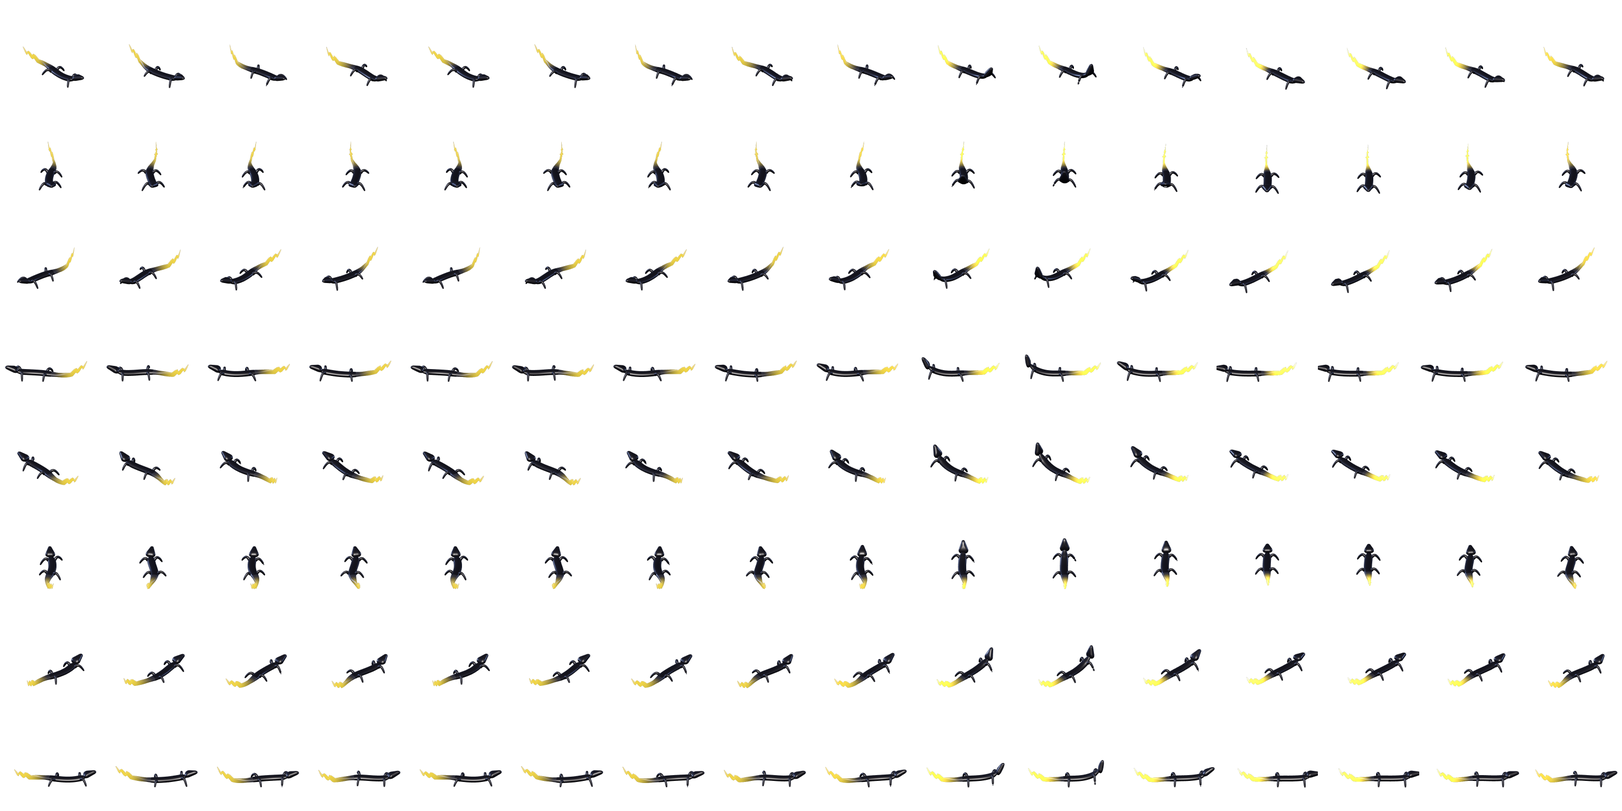
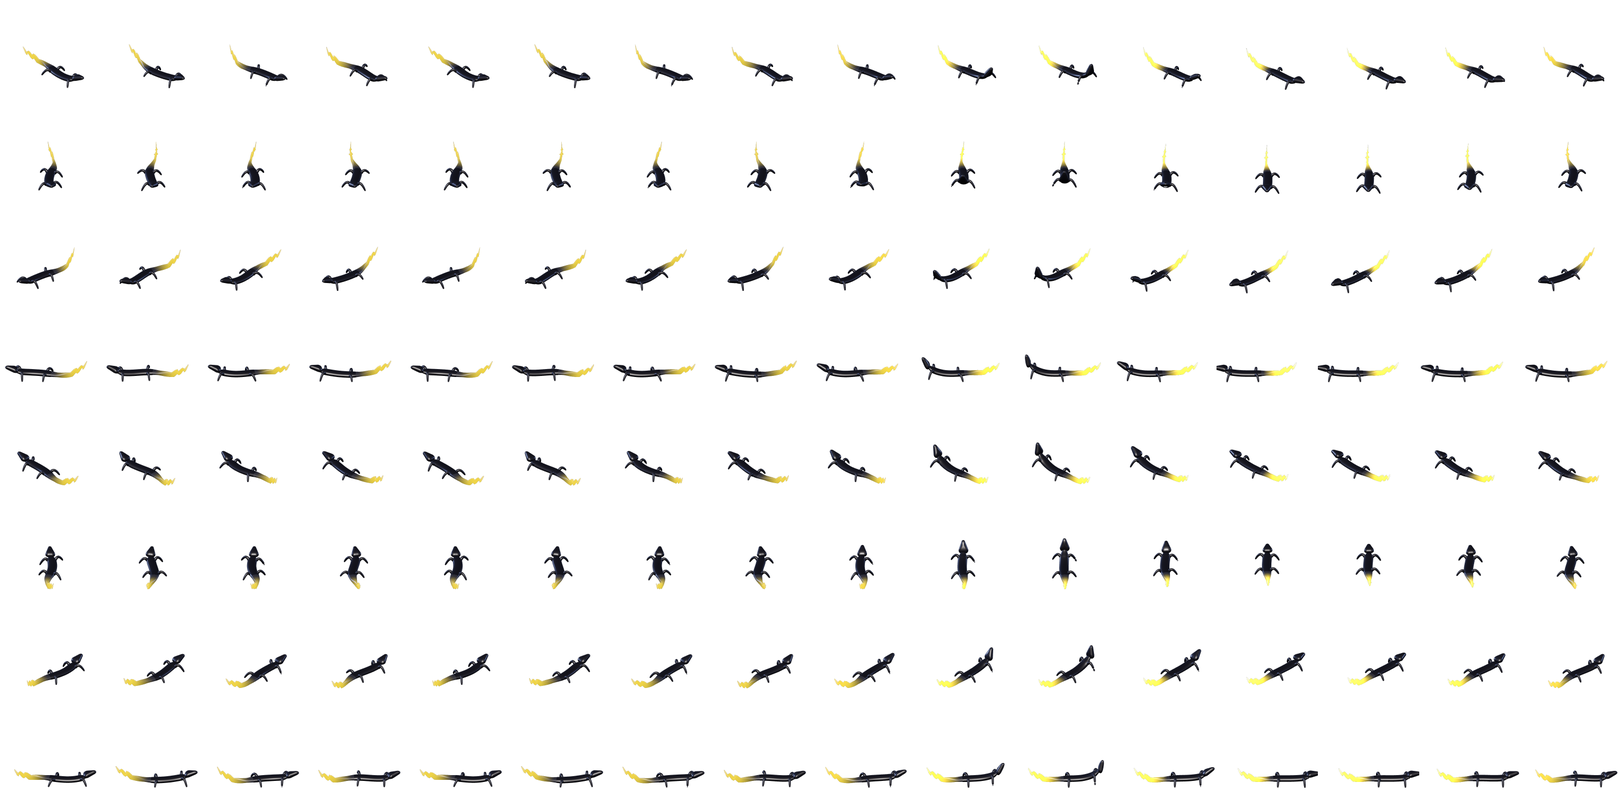
Build 2026-11-08f: the Electro Skink's body as big as its head
The owner on build e: "Make the body ... a little bit bigger to match
the size of the head." The body is thicker, 0.15 wide against 0.13
model units (the head is 0.155), and flatter so it stays low (0.083
high against 0.078, about the head's height). The neck grew a little
with it (0.08 wide against 0.068), so the pinch before the head still
shows without looking overdone. The tail's base thickens with the body.
Re-baked img/evo/electroskink.png and the Bible's picture; stamped.

Claude-Session: https://claude.ai/code/session_0115DZYYhipQqSk6LHvQcEfz

diff --git a/game.html b/game.html
@@ -9,18 +9,18 @@
     <!-- THE PROPS SHEETS THE START WAITS FOR (js/init.js, docs/STARTUP.md) begin to download with the page, alongside the scripts, instead of once the world is built: measured on a slow link (2x CPU, 60 ms, 15 Mbit/s), the start is about half a second sooner (4.1 s to 3.5 s for a new player, 6.4 s to 5.9 s for a returning one).
          They are the addresses the loader asks for (img/props/<family>.png, with the build stamp), so its own requests are answered from these; the stamp changes with the build (tests/startup.js checks both).
          Not here: the player's sheet (the website's background, ?attract, draws no player), the eggs and the evolved forms (which of them the first picture draws depends on the saved game): the start asks for those itself. -->
-    <link rel="preload" as="image" href="img/props/crystalpad.png?v=2026-11-08e">
-    <link rel="preload" as="image" href="img/props/tech.png?v=2026-11-08e">
-    <link rel="preload" as="image" href="img/props/lab.png?v=2026-11-08e">
-    <link rel="preload" as="image" href="img/props/office.png?v=2026-11-08e">
-    <link rel="preload" as="image" href="img/props/lounge.png?v=2026-11-08e">
-    <link rel="preload" as="image" href="img/props/cargo.png?v=2026-11-08e">
-    <link rel="preload" as="image" href="img/props/cold.png?v=2026-11-08e">
-    <link rel="preload" as="image" href="img/props/plant.png?v=2026-11-08e">
-    <link rel="preload" as="image" href="img/props/sentry.png?v=2026-11-08e">
-    <link rel="preload" as="image" href="img/props/tank.png?v=2026-11-08e">
-    <link rel="preload" as="image" href="img/props/truck.png?v=2026-11-08e">
-    <link rel="preload" as="image" href="img/props/bridge.png?v=2026-11-08e">
+    <link rel="preload" as="image" href="img/props/crystalpad.png?v=2026-11-08f">
+    <link rel="preload" as="image" href="img/props/tech.png?v=2026-11-08f">
+    <link rel="preload" as="image" href="img/props/lab.png?v=2026-11-08f">
+    <link rel="preload" as="image" href="img/props/office.png?v=2026-11-08f">
+    <link rel="preload" as="image" href="img/props/lounge.png?v=2026-11-08f">
+    <link rel="preload" as="image" href="img/props/cargo.png?v=2026-11-08f">
+    <link rel="preload" as="image" href="img/props/cold.png?v=2026-11-08f">
+    <link rel="preload" as="image" href="img/props/plant.png?v=2026-11-08f">
+    <link rel="preload" as="image" href="img/props/sentry.png?v=2026-11-08f">
+    <link rel="preload" as="image" href="img/props/tank.png?v=2026-11-08f">
+    <link rel="preload" as="image" href="img/props/truck.png?v=2026-11-08f">
+    <link rel="preload" as="image" href="img/props/bridge.png?v=2026-11-08f">
     <style>
         body { margin: 0; background: #000; overflow: hidden; touch-action: none; font-family: 'Courier New', monospace; }
         canvas { display: block; width: 100vw; height: 100vh; height: 100dvh; touch-action: none; -webkit-user-select: none; -webkit-touch-callout: none; }
@@ -610,7 +610,7 @@
     #cardPick .cp-tile.empty.off > .cp-blank { opacity: 0.5; }
     :is(#cardPick, #cardEquip) .cp-note { font: 700 11px monospace; color: #8aa0c8; letter-spacing: 0.05em; text-align: center; padding-top: 4px; }
     @media (max-width: 700px) { #cardPick .cp-title { font-size: 18px; } #cardPick .cp-arrow { display: none; } #cardPick .cp-rail { padding: 16px 8px 8px; } }
-    /* EQUIP NOW (js/cardsui.js equipNowOpen; build 2026-11-08e): over the CARDS screen (and a pack's reveal), the followers a card fits in a row that slides, each with its slots: the card picker's box, teal */
+    /* EQUIP NOW (js/cardsui.js equipNowOpen; build 2026-11-08f): over the CARDS screen (and a pack's reveal), the followers a card fits in a row that slides, each with its slots: the card picker's box, teal */
     #cardEquip { z-index: 82; }
     #cardEquip .cp-box { box-shadow: 0 0 30px rgba(0,0,0,0.6), 0 0 18px rgba(25,230,193,0.22); } #cardEquip .cp-title { text-shadow: 0 0 12px rgba(25,230,193,0.35); }
     #cardEquip .cp-head { justify-content: flex-start; align-items: center; } #cardEquip .cp-hl { flex: 1; min-width: 0; } #cardEquip .ce-card { flex: none; scroll-snap-align: none; }
@@ -1051,7 +1051,7 @@
     :is(#squadBar, #ccSquadBox) .sb-xp u { display: block; height: 100%; width: 0; background: #9ca8ff; text-decoration: none; transition: width 0.3s; }
     :is(#squadBar, #ccSquadBox) .sb-slot.xp-gain .sb-xp u { background: #e4e8ff; box-shadow: 0 0 8px #9ca8ff; }
     :is(#squadBar, #ccSquadBox) .sb-slot.evo-soon .sb-xp u { animation: sb-evo-soon 1.2s ease-in-out infinite; } @keyframes sb-evo-soon { 50% { background: #e4e8ff; box-shadow: 0 0 8px #9ca8ff; } }
-    /* a card's ULTIMATE (js/party.js _partyUltBar; build 2026-11-08e, the owner: "more visible ultimate bar on followers and access to use them"): a meter under the XP in its element's colour, ULT and the charge in it;
+    /* a card's ULTIMATE (js/party.js _partyUltBar; build 2026-11-08f, the owner: "more visible ultimate bar on followers and access to use them"): a meter under the XP in its element's colour, ULT and the charge in it;
        full, gold, glowing and pulsing, ULTIMATE ▲ and TAP: a tap on it fires the Ultimate (js/elements.js followerUltFire) */
     :is(#squadBar, #ccSquadBox) .sb-ult { position: relative; display: block; box-sizing: border-box; width: 100%; height: 8px; margin: 2px 0 0; padding: 0; border: 0; background: rgba(255,255,255,0.12); cursor: default; font: inherit; color: inherit; }
     :is(#squadBar, #ccSquadBox) .sb-ult[hidden] { display: none; }
@@ -1188,7 +1188,7 @@
     #ccRoot.carousel .cf-none { display: none; flex: 1; align-items: center; justify-content: center; text-align: center; font: 800 13px/1.5 monospace; letter-spacing: 0.06em; color: #8aa0c8; }
     #ccRoot.carousel .cf-card.none .cf-art, #ccRoot.carousel .cf-card.none .cf-txt { display: none; } #ccRoot.carousel .cf-card.none .cf-none { display: flex; }
     /* its settings, beside it */
-    #ccRoot.carousel .cc-side { width: auto; min-height: 0; padding: 0 4px 14px 0; gap: 6px; background: none; border: 0; box-shadow: none; clip-path: none; -webkit-mask-image: linear-gradient(180deg, #000 calc(100% - 14px), transparent); mask-image: linear-gradient(180deg, #000 calc(100% - 14px), transparent); }   /* (a long list of traits fades out at the foot: it scrolls. The settings are slimmer since build 2026-11-08e: every follower has an ATTACK setting now, and the five settings and RE-ROLL · INFO · EXILE still stand in view at 1024 × 768) */
+    #ccRoot.carousel .cc-side { width: auto; min-height: 0; padding: 0 4px 14px 0; gap: 6px; background: none; border: 0; box-shadow: none; clip-path: none; -webkit-mask-image: linear-gradient(180deg, #000 calc(100% - 14px), transparent); mask-image: linear-gradient(180deg, #000 calc(100% - 14px), transparent); }   /* (a long list of traits fades out at the foot: it scrolls. The settings are slimmer since build 2026-11-08f: every follower has an ATTACK setting now, and the five settings and RE-ROLL · INFO · EXILE still stand in view at 1024 × 768) */
     #ccRoot.carousel .cc-dd { display: grid; grid-template-columns: minmax(0, 1fr) auto; grid-template-areas: "k a" "v a"; align-items: center; row-gap: 4px; position: relative; isolation: isolate; flex: none; min-height: 44px; padding: 0 16px; border: 0; background: none; box-shadow: none; text-shadow: 0 1px 6px rgba(0,0,0,0.7); }
     #ccRoot.carousel .cc-dd::before { content: ""; position: absolute; inset: 0; z-index: -1; transform: skewX(-9deg); background: linear-gradient(180deg, #101a36, #05070f); border: 2px solid var(--c); box-shadow: 0 0 12px -2px var(--c), inset 0 0 14px rgba(0,0,0,0.5); }
     #ccRoot.carousel .cc-dd.open { background: none; box-shadow: none; } #ccRoot.carousel .cc-dd.open::before { background: color-mix(in srgb, var(--c) 20%, #05070f); }
@@ -2006,12 +2006,12 @@ function _showError(msg) {
 // Script files that failed to download. A missing file raises no error of its
 // own — only the "Can't find variable" from whatever needed it — so the load
 // failure is caught here, on its way down (capture phase).
-// THE BUILD. Every script URL below carries ?v=2026-11-08e, so a new deploy
+// THE BUILD. Every script URL below carries ?v=2026-11-08f, so a new deploy
 // fetches a matching set: REPORTED, an iPad ran the new js/indexart.js against
 // an old cached js/config.js ("Attempted to assign to readonly property").
 // Change this, the ?v= on every script tag and BUILD_VERSION in js/config.js
 // together (tests/boot.js checks they agree).
-window.__PAGE_BUILD = "2026-11-08e";
+window.__PAGE_BUILD = "2026-11-08f";
 window.__bootFailed = [];
 window.addEventListener("error", function (e) {
     var t = e && e.target;
@@ -2047,92 +2047,92 @@ if (!CanvasRenderingContext2D.prototype.roundRect) {
 </script>
 
 <!-- Game scripts — load order matters (globals first, logic last) -->
-<script src="js/config.js?v=2026-11-08e"></script>
-<script src="js/icons.js?v=2026-11-08e"></script>
-<script src="js/uikit.js?v=2026-11-08e"></script>
-<script src="js/traits.js?v=2026-11-08e"></script>
-<script src="js/elements.js?v=2026-11-08e"></script>
-<script src="js/damage.js?v=2026-11-08e"></script>
-<script src="js/combat.js?v=2026-11-08e"></script>
-<script src="js/species.js?v=2026-11-08e"></script>
-<script src="js/levels.js?v=2026-11-08e"></script>
-<script src="js/status.js?v=2026-11-08e"></script>
-<script src="js/helpers.js?v=2026-11-08e"></script>
-<script src="js/predator.js?v=2026-11-08e"></script>
-<script src="js/abilities.js?v=2026-11-08e"></script>
-<script src="js/commands.js?v=2026-11-08e"></script>
-<script src="js/npc.js?v=2026-11-08e"></script>
-<script src="js/draw.js?v=2026-11-08e"></script>
-<script src="js/beetle3d.js?v=2026-11-08e"></script>
-<script src="js/bugs3d.js?v=2026-11-08e"></script>
-<script src="js/settings.js?v=2026-11-08e"></script>
-<script src="js/alarm.js?v=2026-11-08e"></script>
-<script src="js/drops.js?v=2026-11-08e"></script>
-<script src="js/clone.js?v=2026-11-08e"></script>
-<script src="js/bonds.js?v=2026-11-08e"></script>
-<script src="js/evolution.js?v=2026-11-08e"></script>
-<script src="js/cards.js?v=2026-11-08e"></script>
-<script src="js/cardart.js?v=2026-11-08e"></script>
-<script src="js/hdsprites.js?v=2026-11-08e"></script>
-<script src="js/firebombs.js?v=2026-11-08e"></script>
-<script src="js/moves.js?v=2026-11-08e"></script>
-<script src="js/hudgems.js?v=2026-11-08e"></script>
-<script src="js/commandcenter.js?v=2026-11-08e"></script>
-<script src="js/cardsui.js?v=2026-11-08e"></script>
-<script src="js/unitinfo.js?v=2026-11-08e"></script>
-<script src="js/infodex.js?v=2026-11-08e"></script>
-<script src="js/classes.js?v=2026-11-08e"></script>
-<script src="js/playergear.js?v=2026-11-08e"></script>
-<script src="js/inventory.js?v=2026-11-08e"></script>
-<script src="js/weapons.js?v=2026-11-08e"></script>
-<script src="js/mutator.js?v=2026-11-08e"></script>
-<script src="js/specimen.js?v=2026-11-08e"></script>
-<script src="js/serum.js?v=2026-11-08e"></script>
-<script src="js/potion.js?v=2026-11-08e"></script>
-<script src="js/technomancer.js?v=2026-11-08e"></script>
-<script src="js/playercards.js?v=2026-11-08e"></script>
-<script src="js/stations.js?v=2026-11-08e"></script>
-<script src="js/facilityportals.js?v=2026-11-08e"></script>
-<script src="js/tutorial.js?v=2026-11-08e"></script>
-<script src="js/dialogue.js?v=2026-11-08e"></script>
-<script src="js/questbox.js?v=2026-11-08e"></script>
-<script src="js/facilitymap.js?v=2026-11-08e"></script>
-<script src="js/facilitygrow.js?v=2026-11-08e"></script>
-<script src="js/facility.js?v=2026-11-08e"></script>
-<script src="js/attract.js?v=2026-11-08e"></script>
-<script src="js/facilitysave.js?v=2026-11-08e"></script>
-<script src="js/facilityplay.js?v=2026-11-08e"></script>
-<script src="js/facilitydecor.js?v=2026-11-08e"></script>
-<script src="js/propatlas.js?v=2026-11-08e"></script>
-<script src="js/propsprites.js?v=2026-11-08e"></script>
-<script src="js/facilitystyle.js?v=2026-11-08e"></script>
-<script src="js/facilitystyleall.js?v=2026-11-08e"></script>
-<script src="js/facilitysewers.js?v=2026-11-08e"></script>
-<script src="js/facilitynet.js?v=2026-11-08e"></script>
-<script src="js/population.js?v=2026-11-08e"></script>
-<script src="js/facilityspawn.js?v=2026-11-08e"></script>
-<script src="js/crystalpower.js?v=2026-11-08e"></script>
-<script src="js/antraids.js?v=2026-11-08e"></script>
-<script src="js/followerspots.js?v=2026-11-08e"></script>
-<script src="js/breeding.js?v=2026-11-08e"></script>
-<script src="js/party.js?v=2026-11-08e"></script>
-<script src="js/squadfly.js?v=2026-11-08e"></script>
-<script src="js/techabilities.js?v=2026-11-08e"></script>
-<script src="js/fluxmove.js?v=2026-11-08e"></script>
-<script src="js/fluxlab.js?v=2026-11-08e"></script>
-<script src="js/puzzles.js?v=2026-11-08e"></script>
-<script src="js/quests.js?v=2026-11-08e"></script>
-<script src="js/bosses.js?v=2026-11-08e"></script>
-<script src="js/nestconsole.js?v=2026-11-08e"></script>
-<script src="js/sidequest.js?v=2026-11-08e"></script>
-<script src="js/facilitytutorial.js?v=2026-11-08e"></script>
-<script src="js/gunfire.js?v=2026-11-08e"></script>
-<script src="js/targeting.js?v=2026-11-08e"></script>
-<script src="js/toolbox.js?v=2026-11-08e"></script>
-<script src="js/mixtool.js?v=2026-11-08e"></script>
-<script src="js/radialmenu.js?v=2026-11-08e"></script>
-<script src="js/input.js?v=2026-11-08e"></script>
-<script src="js/game.js?v=2026-11-08e"></script>
+<script src="js/config.js?v=2026-11-08f"></script>
+<script src="js/icons.js?v=2026-11-08f"></script>
+<script src="js/uikit.js?v=2026-11-08f"></script>
+<script src="js/traits.js?v=2026-11-08f"></script>
+<script src="js/elements.js?v=2026-11-08f"></script>
+<script src="js/damage.js?v=2026-11-08f"></script>
+<script src="js/combat.js?v=2026-11-08f"></script>
+<script src="js/species.js?v=2026-11-08f"></script>
+<script src="js/levels.js?v=2026-11-08f"></script>
+<script src="js/status.js?v=2026-11-08f"></script>
+<script src="js/helpers.js?v=2026-11-08f"></script>
+<script src="js/predator.js?v=2026-11-08f"></script>
+<script src="js/abilities.js?v=2026-11-08f"></script>
+<script src="js/commands.js?v=2026-11-08f"></script>
+<script src="js/npc.js?v=2026-11-08f"></script>
+<script src="js/draw.js?v=2026-11-08f"></script>
+<script src="js/beetle3d.js?v=2026-11-08f"></script>
+<script src="js/bugs3d.js?v=2026-11-08f"></script>
+<script src="js/settings.js?v=2026-11-08f"></script>
+<script src="js/alarm.js?v=2026-11-08f"></script>
+<script src="js/drops.js?v=2026-11-08f"></script>
+<script src="js/clone.js?v=2026-11-08f"></script>
+<script src="js/bonds.js?v=2026-11-08f"></script>
+<script src="js/evolution.js?v=2026-11-08f"></script>
+<script src="js/cards.js?v=2026-11-08f"></script>
+<script src="js/cardart.js?v=2026-11-08f"></script>
+<script src="js/hdsprites.js?v=2026-11-08f"></script>
+<script src="js/firebombs.js?v=2026-11-08f"></script>
+<script src="js/moves.js?v=2026-11-08f"></script>
+<script src="js/hudgems.js?v=2026-11-08f"></script>
+<script src="js/commandcenter.js?v=2026-11-08f"></script>
+<script src="js/cardsui.js?v=2026-11-08f"></script>
+<script src="js/unitinfo.js?v=2026-11-08f"></script>
+<script src="js/infodex.js?v=2026-11-08f"></script>
+<script src="js/classes.js?v=2026-11-08f"></script>
+<script src="js/playergear.js?v=2026-11-08f"></script>
+<script src="js/inventory.js?v=2026-11-08f"></script>
+<script src="js/weapons.js?v=2026-11-08f"></script>
+<script src="js/mutator.js?v=2026-11-08f"></script>
+<script src="js/specimen.js?v=2026-11-08f"></script>
+<script src="js/serum.js?v=2026-11-08f"></script>
+<script src="js/potion.js?v=2026-11-08f"></script>
+<script src="js/technomancer.js?v=2026-11-08f"></script>
+<script src="js/playercards.js?v=2026-11-08f"></script>
+<script src="js/stations.js?v=2026-11-08f"></script>
+<script src="js/facilityportals.js?v=2026-11-08f"></script>
+<script src="js/tutorial.js?v=2026-11-08f"></script>
+<script src="js/dialogue.js?v=2026-11-08f"></script>
+<script src="js/questbox.js?v=2026-11-08f"></script>
+<script src="js/facilitymap.js?v=2026-11-08f"></script>
+<script src="js/facilitygrow.js?v=2026-11-08f"></script>
+<script src="js/facility.js?v=2026-11-08f"></script>
+<script src="js/attract.js?v=2026-11-08f"></script>
+<script src="js/facilitysave.js?v=2026-11-08f"></script>
+<script src="js/facilityplay.js?v=2026-11-08f"></script>
+<script src="js/facilitydecor.js?v=2026-11-08f"></script>
+<script src="js/propatlas.js?v=2026-11-08f"></script>
+<script src="js/propsprites.js?v=2026-11-08f"></script>
+<script src="js/facilitystyle.js?v=2026-11-08f"></script>
+<script src="js/facilitystyleall.js?v=2026-11-08f"></script>
+<script src="js/facilitysewers.js?v=2026-11-08f"></script>
+<script src="js/facilitynet.js?v=2026-11-08f"></script>
+<script src="js/population.js?v=2026-11-08f"></script>
+<script src="js/facilityspawn.js?v=2026-11-08f"></script>
+<script src="js/crystalpower.js?v=2026-11-08f"></script>
+<script src="js/antraids.js?v=2026-11-08f"></script>
+<script src="js/followerspots.js?v=2026-11-08f"></script>
+<script src="js/breeding.js?v=2026-11-08f"></script>
+<script src="js/party.js?v=2026-11-08f"></script>
+<script src="js/squadfly.js?v=2026-11-08f"></script>
+<script src="js/techabilities.js?v=2026-11-08f"></script>
+<script src="js/fluxmove.js?v=2026-11-08f"></script>
+<script src="js/fluxlab.js?v=2026-11-08f"></script>
+<script src="js/puzzles.js?v=2026-11-08f"></script>
+<script src="js/quests.js?v=2026-11-08f"></script>
+<script src="js/bosses.js?v=2026-11-08f"></script>
+<script src="js/nestconsole.js?v=2026-11-08f"></script>
+<script src="js/sidequest.js?v=2026-11-08f"></script>
+<script src="js/facilitytutorial.js?v=2026-11-08f"></script>
+<script src="js/gunfire.js?v=2026-11-08f"></script>
+<script src="js/targeting.js?v=2026-11-08f"></script>
+<script src="js/toolbox.js?v=2026-11-08f"></script>
+<script src="js/mixtool.js?v=2026-11-08f"></script>
+<script src="js/radialmenu.js?v=2026-11-08f"></script>
+<script src="js/input.js?v=2026-11-08f"></script>
+<script src="js/game.js?v=2026-11-08f"></script>
 <script>
 // ── BOOT CHECK ────────────────────────────────────────────
 // Every file above must have arrived and run before init.js starts the game.
@@ -2187,7 +2187,7 @@ if (!CanvasRenderingContext2D.prototype.roundRect) {
     document.body.appendChild(d);
 })();
 </script>
-<script src="js/init.js?v=2026-11-08e"></script>
+<script src="js/init.js?v=2026-11-08f"></script>
 
 </body>
 </html>

diff --git a/bible.html b/bible.html
@@ -3568,7 +3568,7 @@
   </div></details>
 
   <h3 id="tech-build">The build stamp and the address flags</h3>
-  <p>The build is <code><span class="n" data-k="BUILD_VERSION">2026-11-08e</span></code> (a date and a letter). <code>BUILD_VERSION</code>, the page's <code>window.__PAGE_BUILD</code> and the <code>?v=</code> on every script tag must be the same string, and every sprite sheet's address carries <code>?v=</code> and the build too (props, the player and egg, the forms and their ground layers), so a new deploy fetches a matching set. The three are changed together; <code>tests/boot.js</code> checks that they agree.</p>
+  <p>The build is <code><span class="n" data-k="BUILD_VERSION">2026-11-08f</span></code> (a date and a letter). <code>BUILD_VERSION</code>, the page's <code>window.__PAGE_BUILD</code> and the <code>?v=</code> on every script tag must be the same string, and every sprite sheet's address carries <code>?v=</code> and the build too (props, the player and egg, the forms and their ground layers), so a new deploy fetches a matching set. The three are changed together; <code>tests/boot.js</code> checks that they agree.</p>
   <ul>
     <li><b>Address flags</b>: <code>?attract</code> (the website's background, below); <code>?power=on</code> (every room lit); <code>?class=&lt;id&gt;</code> (start as a class, for development). NEW GAME strips the stale <code>classic</code> and <code>facilityplay</code> flags.</li>
     <li><b>The inspection map</b> (the dock's MAP): an isometric overlay of the authored map with its own camera (drag to pan, wheel or pinch to zoom, FIT, +, −) that draws each room's outline, name and level, and ✕ CLOSE (<a href="#world-map">part 03</a>).</li>
@@ -3789,7 +3789,7 @@
   </main>
 </div>
 
-<footer>Conduit · the game bible · written against build 2026-11-08e (8 November 2026) · <a href="index.html">Dragonlord</a> · <a href="game.html">play Conduit</a> · the build reports this page was written from are in the repository's <code>docs/</code></footer>
+<footer>Conduit · the game bible · written against build 2026-11-08f (8 November 2026) · <a href="index.html">Dragonlord</a> · <a href="game.html">play Conduit</a> · the build reports this page was written from are in the repository's <code>docs/</code></footer>
 
 <script>
 // each number read from the code says where it comes from; the contents light the part in view; on a narrow screen the contents start folded

diff --git a/design/evolutions/forms36.js b/design/evolutions/forms36.js
@@ -136,8 +136,8 @@ function _electroSkink(o) {
 const _sk0 = {
   S: 0.85, coreY: 0.09, shiftZ: 0.2,
   spine: [[0.36, 0.112], [0.25, 0.086], [0.1, 0.072], [-0.08, 0.07], [-0.24, 0.07], [-0.42, 0.066], [-0.6, 0.072], [-0.78, 0.098]],
-  rNeck: 0.034, rBody: 0.065, rTip: 0.01, sTrunk: 0.13,   // (a pinched neck, so the head reads: the owner, 2026-11-08, "He's supposed to have a small head, but it looks like he doesn't have a head at all")
-  sHip: 0.47, flat: 0.6,
+  rNeck: 0.04, rBody: 0.075, rTip: 0.01, sTrunk: 0.13,   // (a pinched neck, so the head reads: the owner, 2026-11-08, "He's supposed to have a small head, but it looks like he doesn't have a head at all"; the body as wide as the head since the owner on build e: "Make the body ... a little bit bigger to match the size of the head": it was rNeck 0.034, rBody 0.065, flat 0.6)
+  sHip: 0.47, flat: 0.55,   // (flatter, so the bigger body stays low and flat: 0.15 wide, 0.083 high, about the head's size)
   legs: [{ s: 0.115, fwd: 0.04 }, { s: 0.47, fwd: -0.03 }], legR0: 0.025, legR1: 0.015, reach: 0.13, arch: 0.045,
   stride: 0.035, lift: 0.028, rearLift: 0.05,
   headW: 0.155, headL: 0.215, headH: 0.096, headRb: 0.05, headRf: 0.028, headP: 2.4, headTaper: 0.3, headUnder: 0.65,   // (small and sleek: a little wider than the neck at the back (rounded by headRb), narrowing to the snout (rounded by headRf); its underside shallow, so no jaw. The owner on build d: "a little bit sleeker. It needs to not have such a jaw": it was 0.185 wide, 0.21 long, 0.104 high, rb 0.045, rf 0.026, the underside as deep as the top, tilted 0.18. Build c's was a ball 0.165 × 0.115 × 0.165; build a's 0.15 × 0.078 × 0.17, level with the body)

diff --git a/js/config.js b/js/config.js
@@ -6,7 +6,7 @@
 
 // The build this file belongs to — the same as window.__PAGE_BUILD and the
 // ?v= on every script tag in game.html (the boot check compares them).
-const BUILD_VERSION = "2026-11-08e";
+const BUILD_VERSION = "2026-11-08f";
 
 // ── GLOBAL ERROR DISPLAY ──────────────────────────────────
 // Lives in game.html (_showError), before any file loads. This file used to

diff --git a/docs/CHANGELOG.md b/docs/CHANGELOG.md
@@ -4,6 +4,8 @@ What changed, build by build, newest first. Each entry names its commit (`git lo
 
 ## 2026-11-08
 
+- **f · The Electro Skink's body as big as its head.** Owner (2026-11-08, on build e): "Make the body [...] a little bit bigger to match the size of the head." The body is thicker: 0.15 wide against 0.13 (model units; the head is 0.155), and flatter so it stays low (0.083 high against 0.078, about the head's height). The neck grew a little with it (0.08 wide against 0.068), so the pinch before the head still shows without looking overdone. The tail's base thickens with the body and tapers to the same bolt. `design/evolutions/forms36.js` (`_sk0`: rBody 0.075, flat 0.55, rNeck 0.04); re-baked; the Bible's picture with it. Branch `claude/start-game-project-HSh7Z`. Not playtested.
+
 - **e · The Electro Skink's head sleeker, no jaw.** Owner (2026-11-08, on build d): "a little bit sleeker. It needs to not have such a jaw." The head is narrower at the back (0.155 against 0.185, model units), so its back corners no longer flare out past the neck like a jaw; its underside is shallower than its top (65%), so nothing hangs below it; it is a little lower (0.096 against 0.104) and a touch longer (0.215 against 0.21), its snout tipped up less. Still a rounded triangle from above and a pill from the side. `design/evolutions/forms36.js` (`_sk0` head values, `headUnder` in `_skHeadGeo`); re-baked; the Bible's picture with it. Branch `claude/start-game-project-HSh7Z`. Not playtested.
 
 - **d · The Electro Skink's head a rounded triangle.** Owner (2026-11-08, on build c): "Needs a more triangle head, but still overall round. Still want it pill-shaped." Seen from above the head is now a rounded triangle, wide at the back and narrowing to a rounded snout; its top is domed and its sides round; from the side it is a pill, a little lower toward the snout. It is slightly longer and wider than build c's ball (0.21 × 0.185 × 0.104 against 0.165 × 0.165 × 0.115, model units). Shape built in `design/evolutions/forms36.js` (`_skHeadGeo`); re-baked; the Bible's picture with it. Branch `claude/start-game-project-HSh7Z`. Not playtested.
